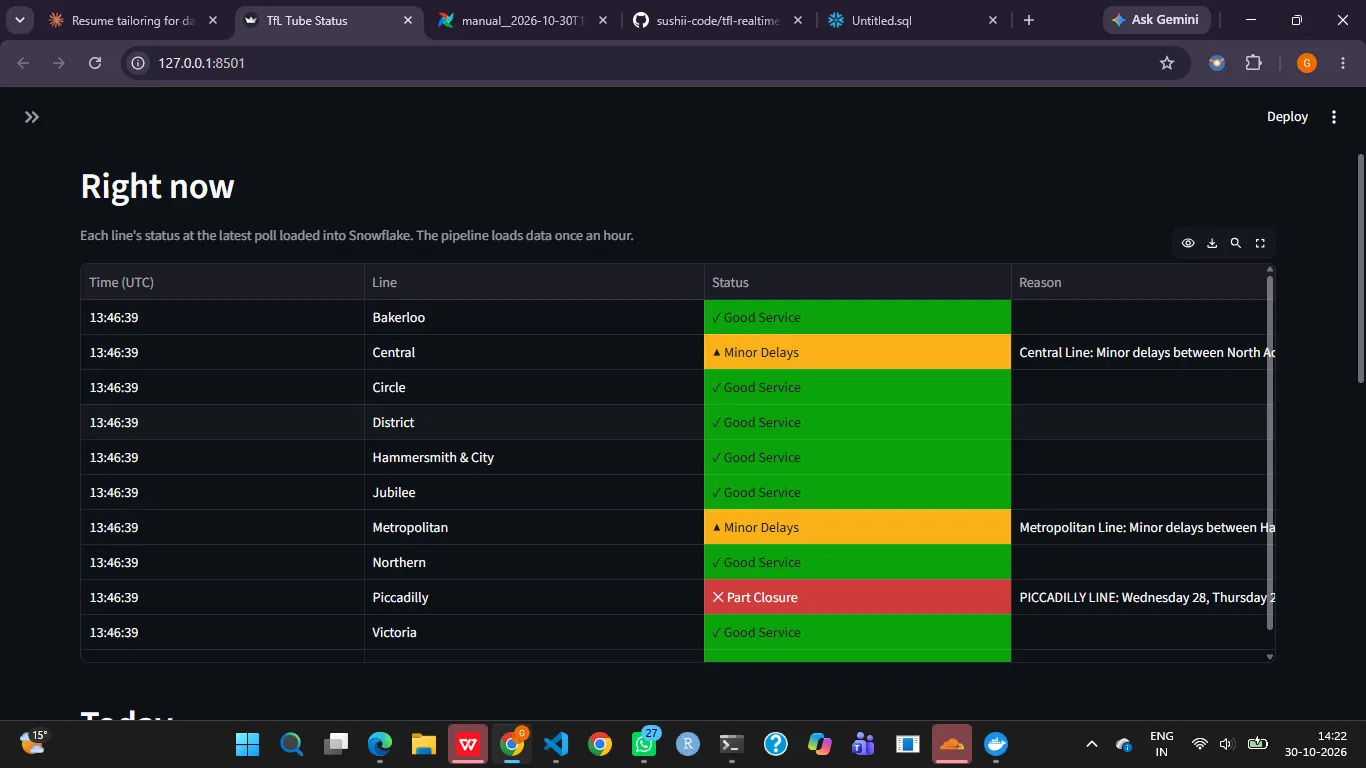
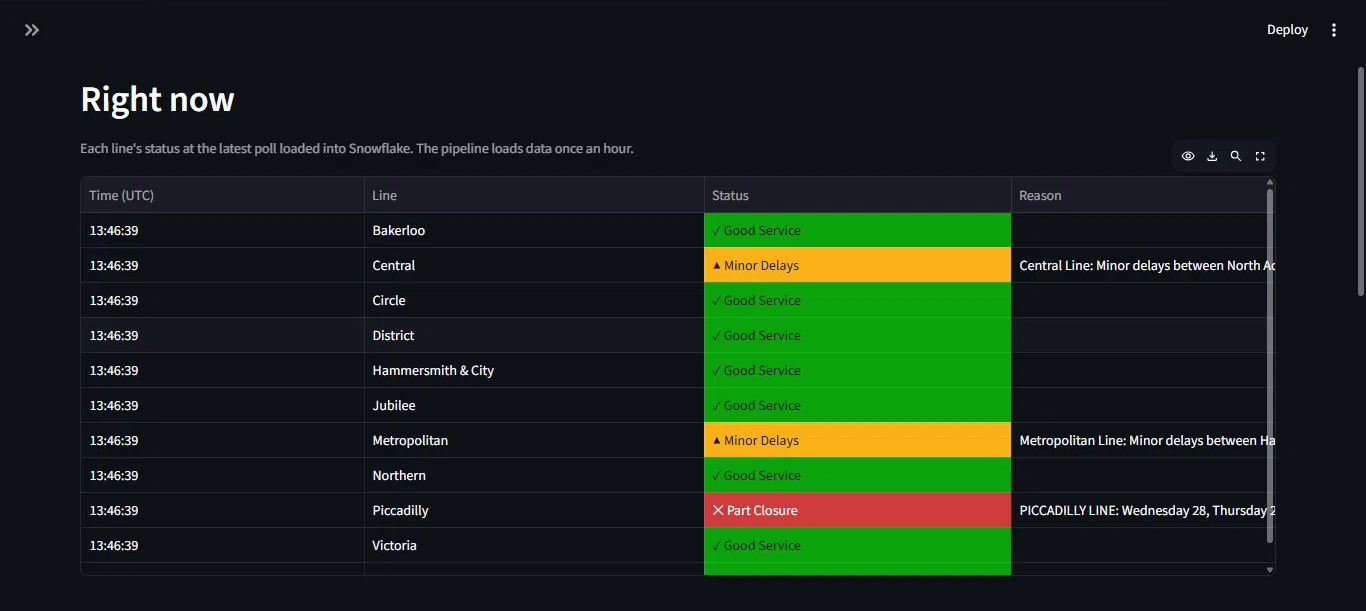
Day 9: recruiter-friendly README, results line and cropped screenshots

diff --git a/README.md b/README.md
@@ -1,37 +1,304 @@
-# tfl-realtime-streaming
+# TfL Real-Time Streaming Pipeline
 
-A real-time data pipeline built on live Transport for London (TfL) data. It collects tube line statuses and bike point availability from the TfL API, streams them through Kafka into Snowflake, transforms them with dbt, schedules the work with Airflow, and shows the results on a Streamlit dashboard.
+An end-to-end data pipeline that streams live London Underground status through Kafka into Snowflake, transforms it with dbt, runs hourly on Airflow, and shows the results on a Streamlit dashboard.
+
+![Python](https://img.shields.io/badge/Python-3.14%20%7C%203.12-3776AB?logo=python&logoColor=white)
+![Apache Kafka](https://img.shields.io/badge/Kafka-4.3.2-231F20?logo=apachekafka&logoColor=white)
+![Docker](https://img.shields.io/badge/Docker-Compose-2496ED?logo=docker&logoColor=white)
+![Snowflake](https://img.shields.io/badge/Snowflake-Data%20Warehouse-29B5E8?logo=snowflake&logoColor=white)
+![dbt](https://img.shields.io/badge/dbt-1.12.6-FF694B?logo=dbt&logoColor=white)
+![Apache Airflow](https://img.shields.io/badge/Airflow-3.3.2-017CEE?logo=apacheairflow&logoColor=white)
+![Streamlit](https://img.shields.io/badge/Streamlit-1.66.1-FF4B4B?logo=streamlit&logoColor=white)
+
+**Results:** tracks 11 tube lines, polled every 30 seconds, through a 5-task Airflow DAG that runs hourly, with 20 dbt data tests defined.
+
+## What it does
+
+- **Collects live data:** a Python producer calls the TfL API every 30 seconds and sends each tube line's status to Kafka.
+- **Stores it safely:** a consumer writes the messages to JSON Lines files, which are then loaded into Snowflake.
+- **Transforms and tests it:** dbt removes duplicates, builds a daily summary and checks the data, with Airflow running everything once an hour.
+- **Shows the results:** a Streamlit dashboard shows each line's latest status, today's % good service, and today's disruptions.
 
 ## Architecture
 
+```mermaid
+flowchart LR
+    API["TfL Line Status API"] --> P["producer.py<br/>runs all the time"]
+
+    subgraph K["Kafka"]
+        LS["line_status topic"]
+        DL["dead_letter topic"]
+    end
+
+    P --> LS
+    P -. "cannot be parsed" .-> DL
+    LS --> C["consumer.py<br/>drain mode"]
+    C -. "cannot be parsed" .-> DL
+    C --> F["data/landing/line_status<br/>JSON Lines files"]
+    F --> LD["load_to_snowflake.py"]
+    LD -- "PUT" --> S["Snowflake stage<br/>LINE_STATUS_STAGE"]
+    S -- "COPY INTO" --> R["RAW.LINE_STATUS_RAW"]
+    R --> DBT["dbt run, test,<br/>source freshness"]
+    DBT --> STG["staging<br/>stg_line_status"]
+    STG --> M["marts<br/>fct_line_status_daily"]
+    STG --> D["Streamlit dashboard"]
+    M --> D
+
+    A["Airflow<br/>hourly DAG"] -. "1. consume" .-> C
+    A -. "2. load" .-> LD
+    A -. "3. transform and check" .-> DBT
+```
+
+## Screenshots
+
+**Dashboard: each line's latest status**
+
+![Dashboard table of each tube line's latest status, coloured by severity](docs/images/dashboard_right_now.png)
+
+**Dashboard: today's % good service per line**
+
+![Dashboard bar chart of the percentage of good service per tube line](docs/images/dashboard_today.png)
+
+**Dashboard: today's disruptions with reasons**
+
+![Dashboard table of polls without good service, with the reason for each](docs/images/dashboard_disruptions.png)
+
+**Airflow: the hourly pipeline**
+
+![Airflow page for the tfl_line_status_pipeline DAG and its five tasks](docs/images/tfl_line_status_pipeline.png)
+
+**Kafka UI: messages in `line_status`, keyed by line id**
+
+![Kafka UI showing line_status messages with line ids as keys](docs/images/kafka_ui.png)
+
+**Snowflake: the daily mart**
+
+![Snowsight query results from FCT_LINE_STATUS_DAILY](docs/images/snowflake_mart.png)
+
+## Tech stack
+
+| Area | Technology | Version | Pinned in |
+|---|---|---|---|
+| Message broker | Apache Kafka (KRaft mode, one broker) | `apache/kafka:4.3.2` | `docker/docker-compose.yml` |
+| Kafka web UI | Kafbat Kafka UI | `kafbat/kafka-ui:v1.5.0` | `docker/docker-compose.yml` |
+| Orchestration | Apache Airflow (standalone, Python 3.12) | `apache/airflow:3.3.2-python3.12` | `airflow/Dockerfile` |
+| Kafka client | confluent-kafka | `2.16.1` | `requirements.txt` |
+| HTTP client | requests | `2.34.2` | `requirements.txt` |
+| Data warehouse | Snowflake (with snowflake-connector-python) | `4.8.1` | `requirements.txt` |
+| Key generation | cryptography | `50.0.2` | `requirements.txt` |
+| Transformation | dbt-core | `1.12.6` | `requirements.txt` |
+| Transformation | dbt-snowflake | `1.12.4` | `requirements.txt` |
+| Dashboard | Streamlit | `1.66.1` | `requirements.txt` |
+
+## Project structure
+
 ```text
-TfL API -> Kafka -> Snowflake -> dbt -> Airflow -> Streamlit
+.
+├── airflow/         Dockerfile for the Airflow image, and dags/ with the hourly pipeline
+├── consumer/        Reads Kafka, writes JSON Lines batches, commits offsets
+├── dashboard/       Streamlit app
+├── data/samples/    Saved example responses from the TfL API
+├── dbt/             dbt project: staging and marts models, tests, profiles.yml
+├── docker/          Docker Compose stack, topic creation script, .env.example
+├── docs/            Beginner notes (learnings.md) and screenshots (images/)
+├── producer/        TfL API exploration script and the Kafka producer
+├── snowflake/       Setup SQL (01, 02, 03), key generation, and the loader
+└── requirements.txt Pinned Python packages
 ```
 
-**Status: in progress**
+## Key design decisions
 
-## Running locally
+- **Keyed messages for ordering:** each message's key is its line id. Kafka sends the same key to the same partition, and order is guaranteed within a partition. `line_status` has one partition today, so this matters if it ever gets more.
+- **Dead letter topic:** data that can't be parsed goes to `dead_letter` with the error, so one bad message doesn't stop the pipeline and can be inspected later.
+- **Manual offset commits after writing (at-least-once):** the consumer commits only after a batch file is saved. A crash can cause duplicates, but it can't lose data.
+- **Atomic file writes:** each batch is written to a `.tmp` file, flushed to disk, then renamed, so a half-written file never looks finished.
+- **`COPY INTO` load history:** Snowflake skips files it has already loaded, so running the loader again doesn't load them twice.
+- **Deduplication in dbt:** `stg_line_status` keeps one row per `kafka_partition` + `kafka_offset`, which removes duplicates that at-least-once delivery can create.
+- **Key-pair login with least-privilege roles:** there are three service users with no passwords: loader (`TFL_LOADER_ROLE`), transformer (`TFL_TRANSFORMER_ROLE`), and read-only reporter (`TFL_REPORTER_ROLE`).
+- **Cost controls:** an XSMALL warehouse with `AUTO_SUSPEND = 60`, plus a resource monitor that suspends it at 20 credits a month.
+- **Producer outside Airflow:** a streaming producer never "finishes", but Airflow tasks must. The producer runs on its own and Kafka holds the messages until the next run.
+- **Consumer drain mode:** with `CONSUMER_RUN_ONCE=true`, the consumer reads to the end of each partition, saves, commits and exits, so it can be an Airflow task. Without it, the consumer runs continuously.
 
-You need Docker Desktop running. Run these commands in PowerShell from the project's main folder.
+## Problems I solved
 
-**Start Kafka and the Kafka UI:**
+- **`localhost` on Windows:** the Kafka client tried IPv6 (`[::1]`) first, but Docker only published the port on IPv4 `127.0.0.1`, causing connection errors. Setting `broker.address.family` to `v4` fixed it.
+- **Snowsight running one statement at a time:** this lost the `USE SCHEMA` context between statements, so objects couldn't rely on it. The setup SQL now uses fully qualified names such as `TFL_DB.RAW.LINE_STATUS_RAW`, and is meant to be run one statement at a time.
+- **dbt's parser package on Windows with Python 3.14:** dbt-core 1.12's `dbt-core-experimental-parser` dependency has no wheels in its current releases, so a wheels-only install fails. Its source package downloads a prebuilt wheel at install time and checks its SHA-256 hash, so a normal `pip install` is the route to use. The older dbt 1.11 line wasn't an option, because its Snowflake adapter's `certifi` limit conflicts with the connector pin.
+- **Snowflake's time zone:** the trial account's default wasn't UTC, so `01_setup.sql` runs `ALTER ACCOUNT SET TIMEZONE = 'UTC'`, and the dbt models convert timestamps to UTC explicitly.
+- **Two Kafka listeners:** programs on the laptop need `localhost:9092`, while containers need `kafka:29092`, because `localhost` inside a container means that container. Kafka advertises the right address to each.
+
+## Data model
+
+### `stg_line_status` (view, schema `ANALYTICS_STAGING`)
+
+One row per tube line per poll, with duplicate messages removed. If a line has several statuses in one poll, the row keeps the lowest severity code.
+
+| Column | Description |
+|---|---|
+| `line_id`, `line_name` | TfL's line id and name |
+| `status_severity` | TfL's status code, from 0 to 20 (10 means Good Service) |
+| `status_description` | The status in words |
+| `reason` | TfL's explanation, when there is one |
+| `ingested_at` | When the producer received the data, in UTC |
+| `kafka_partition`, `kafka_offset` | Where the message was in Kafka; used for deduplication |
+| `source_file` | The stage file the row came from |
+| `loaded_at` | When the row was loaded into Snowflake, in UTC |
+
+### `fct_line_status_daily` (table, schema `ANALYTICS_MARTS`)
+
+One row per tube line per UTC day.
+
+| Column | Description |
+|---|---|
+| `line_id`, `line_name` | The line |
+| `status_date` | The UTC day |
+| `poll_count` | Number of polls |
+| `good_service_poll_count` | Polls with Good Service (code 10) |
+| `good_service_pct` | Percentage of polls with Good Service |
+| `first_seen_at`, `last_seen_at` | First and last poll of the day, in UTC |
+
+### dbt tests
+
+- **`not_null`:** on every column of both models, except `reason`, which is empty when service is good.
+- **`accepted_values`:** `status_severity` must be a whole number from 0 to 20.
+- **Uniqueness (SQL tests in `dbt/tests/`):** one row per `kafka_partition` + `kafka_offset` in staging, and one row per `line_id` + `status_date` in the mart.
+- **Source freshness:** on `loaded_at`, with a warning after 1 hour and an error after 24 hours.
+
+## How to run locally
+
+For more detail on each step, see the [beginner notes in docs/learnings.md](docs/learnings.md).
+
+### Prerequisites
+
+- Windows with PowerShell (the commands below are written for it)
+- Docker Desktop
+- Python 3.14 (the laptop scripts were built on it; the Airflow image uses Python 3.12)
+- A Snowflake account, where you can use `ACCOUNTADMIN`
+
+No TfL API key is needed. The producer can run without one at a lower rate limit. To use one, set `$env:TFL_APP_KEY` in the terminal before starting the producer.
+
+Run all commands from the project's main folder.
+
+### Steps
+
+**1. Get the code and install the packages**
 
 ```powershell
-docker compose -f docker/docker-compose.yml up -d
+git clone <this repository's URL>
+cd <the cloned folder>
+python -m venv .venv
+.\.venv\Scripts\python.exe -m pip install -r requirements.txt
 ```
 
-**Open the UI:** go to <http://localhost:8080>. Kafka has to pass its healthcheck first, so the UI can take up to a minute to appear.
-
-**Create the topics** (safe to run more than once):
+**2. Generate the key pair**
 
 ```powershell
+.\.venv\Scripts\python.exe snowflake\generate_keys.py
+```
+
+This saves the keys to the git-ignored `keys/` folder and prints an `ALTER USER TFL_LOADER ...` line. It won't overwrite existing keys. To print the same public key again for the other two users:
+
+```powershell
+$publicKey = (Get-Content keys\rsa_key.pub | Select-Object -Skip 1 -SkipLast 1) -join ''
+"RSA_PUBLIC_KEY='$publicKey'"
+```
+
+**3. Set up Snowflake for the loader and dbt**
+
+In a Snowsight worksheet, run these files one statement at a time, from top to bottom. First replace the `<paste public key here>` placeholder at the end of each one, in the worksheet only.
+
+1. `snowflake/01_setup.sql`
+2. `snowflake/02_dbt_setup.sql`
+
+**4. Create `docker/.env`**
+
+```powershell
+Copy-Item docker\.env.example docker\.env
+```
+
+Fill it in with your account identifier, and the names created above:
+
+| Setting | Value |
+|---|---|
+| `SNOWFLAKE_USER` | `TFL_LOADER` |
+| `SNOWFLAKE_ROLE` | `TFL_LOADER_ROLE` |
+| `SNOWFLAKE_SCHEMA` | `RAW` |
+| `TFL_DBT_USER` | `TFL_DBT` |
+| `TFL_DBT_ROLE` | `TFL_TRANSFORMER_ROLE` |
+| `TFL_DBT_SCHEMA` | `ANALYTICS` |
+| `SNOWFLAKE_WAREHOUSE`, `TFL_DBT_WAREHOUSE` | `TFL_WH` |
+| `SNOWFLAKE_DATABASE`, `TFL_DBT_DATABASE` | `TFL_DB` |
+| `SNOWFLAKE_ACCOUNT`, `TFL_DBT_ACCOUNT` | Your Snowflake account identifier |
+
+**5. Start the Docker stack and create the topics**
+
+```powershell
+docker compose -f docker/docker-compose.yml up -d --build
 powershell -ExecutionPolicy Bypass -File docker/create_topics.ps1
 ```
 
-**Stop everything** (your data is kept):
+This starts Kafka, Kafka UI (<http://localhost:8080>) and Airflow.
+
+**6. Run the producer**
+
+Run this in its own terminal, and keep it running:
 
 ```powershell
-docker compose -f docker/docker-compose.yml down
+.\.venv\Scripts\python.exe producer\producer.py
 ```
 
-Programs on your laptop connect to Kafka at `localhost:9092`. Programs in other containers use `kafka:29092`.
+**7. Run the pipeline in Airflow**
+
+Get the login, which the container generates. The username is `admin`:
+
+```powershell
+docker exec tfl-airflow cat /opt/airflow/simple_auth_manager_passwords.json.generated
+```
+
+Open <http://127.0.0.1:8081>, go to **Dags**, turn on `tfl_line_status_pipeline`, and click **Trigger**. Don't run `consumer.py` on your laptop at the same time, because it uses the same consumer group.
+
+**8. Set up Snowflake for the dashboard**
+
+The first DAG run creates the dbt schemas. After it succeeds, run `snowflake/03_dashboard_setup.sql` one statement at a time, replacing the placeholder as before.
+
+**9. Run the dashboard**
+
+```powershell
+$env:TFL_APP_ACCOUNT = "<your account identifier>"
+$env:TFL_APP_USER = "TFL_APP"
+$env:TFL_APP_ROLE = "TFL_REPORTER_ROLE"
+$env:TFL_APP_WAREHOUSE = "TFL_WH"
+$env:TFL_APP_PRIVATE_KEY_PATH = "keys/rsa_key.p8"
+.\.venv\Scripts\streamlit.exe run dashboard\app.py --server.address 127.0.0.1 --server.headless true --browser.gatherUsageStats false
+```
+
+Open <http://127.0.0.1:8501>.
+
+## Cost and safety notes
+
+- **Trial credits:** every Airflow run wakes the warehouse, even with no new data, and so does a dashboard query that isn't cached. That's why the DAG runs hourly, dashboard results are cached for 5 minutes, and the warehouse suspends after 60 idle seconds.
+- **Spending limit:** the resource monitor suspends the warehouse at 20 credits a month. After that, pipeline tasks and the dashboard fail until the limit resets or is raised.
+- **Stopping everything:** turn off the DAG in the Airflow UI, press Ctrl+C in the producer and dashboard terminals, then run:
+
+  ```powershell
+  docker compose -f docker/docker-compose.yml down
+  ```
+
+- **Don't add `-v` to that command:** it deletes the Kafka and Airflow volumes. Kafka's offsets would then restart at 0, and new messages could be wrongly removed as duplicates of old rows, because dbt deduplicates on partition and offset.
+- **Secrets:** private keys and `.env` files are git-ignored, `.dockerignore` keeps them out of the image build, and `keys/` is mounted read-only into Airflow.
+- **Local use only:** the Kafka, Kafka UI, Airflow and Streamlit ports only accept connections from your own laptop. Kafka has no password, and Airflow standalone's login is meant for development, so this setup isn't production-ready.
+
+## What I would add next
+
+- **`bike_points` data:** the topic is created and sample responses are saved, but nothing produces to it yet.
+- **Alerting on failures:** failures currently only show up in the Airflow UI and logs.
+- **CI:** run dbt tests on GitHub Actions for each change.
+- **Incremental dbt models:** the mart is currently rebuilt in full on every run.
+- **Deploying the dashboard:** it currently runs only on my laptop.
+
+## Author
+
+**Gnana Sushmitha Tammisetti**
+
+- LinkedIn: [linkedin.com/in/gnanasushmitha](https://www.linkedin.com/in/gnanasushmitha)
+- GitHub: [sushii-code](https://github.com/sushii-code)
